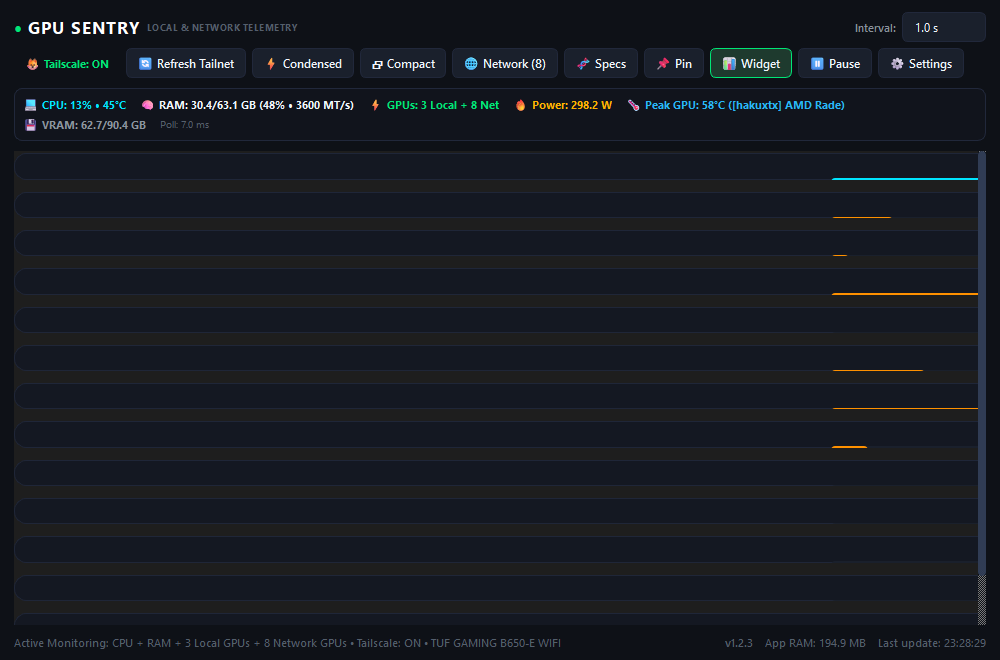
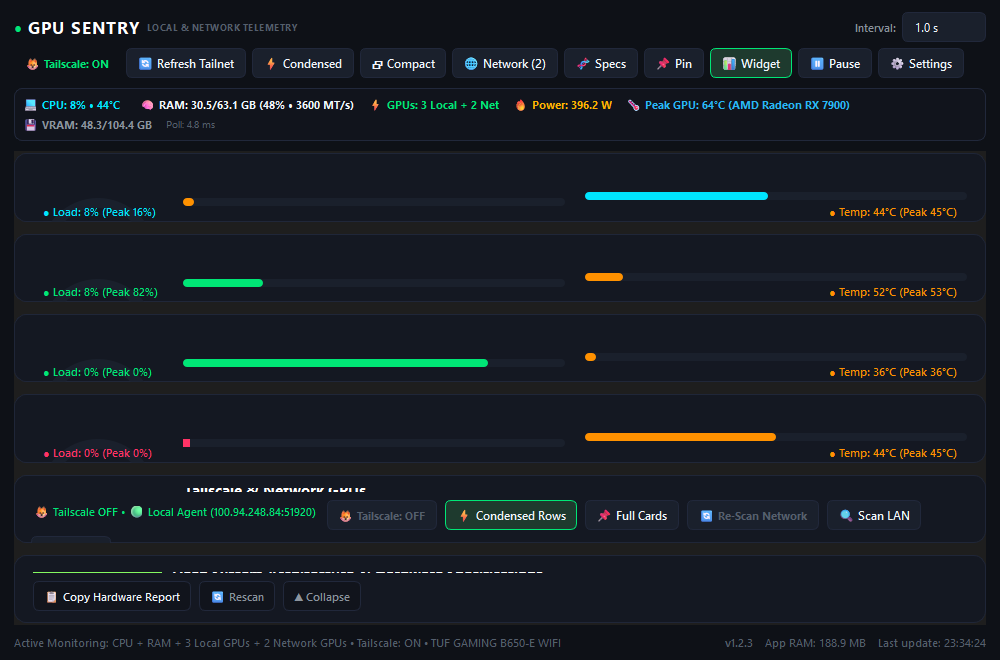
chore(privacy): sanitize personal Tailscale hostnames/IPs and re-record anonymized demo GIF

diff --git a/core/network_telemetry.py b/core/network_telemetry.py
@@ -138,7 +138,7 @@ true
 
 @dataclass
 class RemoteNodeConfig:
-    node_id: str          # e.g. "sentry://192.168.1.50:51920" or "ssh://hakanu@hakuxtx"
+    node_id: str          # e.g. "sentry://192.168.1.50:51920" or "ssh://user@gpu-rig"
     address: str          # IP, hostname, or user@host
     protocol: str = "auto"  # "auto", "sentry", "ssh", "lhm"
     port: int = DEFAULT_HTTP_PORT
@@ -715,7 +715,7 @@ class NetworkTelemetryManager(QObject):
             raw_host = str(p.get("HostName", "")).strip()
             dns_name = str(p.get("DNSName", "")).strip().rstrip(".")
             dns_short = dns_name.split(".")[0].strip() if dns_name else ""
-            # Prefer clean DNS hostname (e.g. 'hakumacmini') over verbose HostName ('hakumacmini’s Mac mini')
+            # Prefer clean DNS hostname (e.g. 'mac-mini') over verbose HostName ('User’s Mac mini')
             host_name = dns_short or raw_host
             ts_ips = p.get("TailscaleIPs", [])
             ip = ts_ips[0] if ts_ips else ""
@@ -758,7 +758,7 @@ class NetworkTelemetryManager(QObject):
         except Exception:
             pass
         ssh_users = []
-        for u in ("hakanu", local_user, "root"):
+        for u in (local_user, "root"):
             if u and u not in ssh_users:
                 ssh_users.append(u)
 

diff --git a/ui/widgets/network_nodes_card.py b/ui/widgets/network_nodes_card.py
@@ -177,7 +177,7 @@ class NetworkNodesCard(QFrame):
         add_bar.addWidget(self.cb_proto)
 
         self.txt_address = QLineEdit()
-        self.txt_address.setPlaceholderText("Enter Tailscale host / IP / SSH (e.g. hakanu@hakuxtx or 100.88.172.48 or 192.168.1.50)...")
+        self.txt_address.setPlaceholderText("Enter Tailscale host / IP / SSH (e.g. user@gpu-rig or 100.64.0.10 or 192.168.1.50)...")
         self.txt_address.setStyleSheet(f"""
             QLineEdit {{
                 background-color: {Theme.BG_ROOT};

diff --git a/backlog.md b/backlog.md
@@ -16,7 +16,7 @@
   - Integrated `LinuxDrmBackend` into `BpytopTuiApp` so Ubuntu AMD and Intel GPUs appear natively in the Local GPUs box and Active GPU Processes panel.
   - Added automatic headless fallback in `main.py` so running `gpu-sentry` over SSH without `$DISPLAY`/`$WAYLAND_DISPLAY` launches the TUI automatically and `--agent` runs without requiring `PyQt6`.
   - Added non-root Linux SMBIOS Type 16/17 DIMM inspection via `/run/udev/data/+dmi:id` in `core/hardware_info.py`.
-  - Verified on Ubuntu AMD discrete (`hakuxtx` — RX 7900 XTX) and AMD APU (`gmk` — Radeon 780M) systems.
+  - Verified on Ubuntu AMD discrete (RX 7900 XTX) and AMD APU (Radeon 780M) systems.
 - [x] **GUI Tailscale ON/OFF Controls & Very Condensed View of Everything**:
   - Added master **`🦊 Tailscale: ON / OFF`** toggle button in the top navigation bar (`ui/main_window.py`), `NetworkNodesCard` header (`ui/widgets/network_nodes_card.py`), `CondensedDashboardWidget` (`ui/widgets/condensed_dashboard.py`), System Tray menu, and `t` hotkey in TUI (`ui/tui_dashboard.py`), plus `--no-tailscale` / `--tailscale` CLI flags.
   - Added per-node `ON` / `OFF` enable/disable toggles in `NetworkNodesCard` and `CondensedDashboardWidget`.
@@ -26,9 +26,9 @@
   - Added **`🔄 Re-Scan`** / **`🔄 Re-Scan Network`** button in the GUI navigation bar (`ui/main_window.py`), `CondensedDashboardWidget` (`ui/widgets/condensed_dashboard.py`), and `NetworkNodesCard` (`ui/widgets/network_nodes_card.py`), as well as `r` / `s` hotkey in `ui/tui_dashboard.py`.
   - Clears probed Tailscale cache and triggers an immediate parallel probe of both Tailscale Tailnet and local LAN nodes.
   - Added full macOS & Apple Silicon GPU support (`IOAccelerator` / `Metal`): parses GPU model (e.g. `Apple M4 (10-Core GPU)`), Metal driver version, core count, live `Device Utilization %`, `Renderer Utilization %`, `Tiler Utilization %`, Unified Memory (`sysctl hw.memsize` + `vm_stat`), and non-root die temperatures via `IOHIDEventSystemClient`.
-  - Added clean DNS MagicDNS resolution (`DNSName`) so macOS machines with spaces or special characters in `HostName` (e.g. `hakumacmini’s Mac mini` -> `hakumacmini`) connect cleanly over SSH.
+  - Added clean DNS MagicDNS resolution (`DNSName`) so macOS machines with spaces or special characters in `HostName` (e.g. `User’s Mac mini` -> `mac-mini`) connect cleanly over SSH.
   - Added zsh compatibility guard (`setopt NO_NOMATCH`) to the remote SSH probe so zsh on macOS does not abort on Linux sysfs glob patterns.
-  - Bumped version to `v1.1.4` and verified `hakumacmini` and `hakux` discovery and telemetry.
+  - Bumped version to `v1.1.4` and verified macOS and Linux peer discovery and telemetry.
 - [x] **Documentation (`README.md`)**:
   - Documented `uv` installation and git-based self-update workflows, Ubuntu setup, native AMD `amdgpu` telemetry features, TUI usage, and FAQ for Windows `taskkill` and Tailnet troubleshooting / Re-Scan.
 

diff --git a/README.md b/README.md
@@ -59,7 +59,7 @@ Tailscale scanning is **OFF by default on fresh installs** so the app never surp
 2. Remote machines are discovered automatically via:
    - **Linux & macOS (Agentless SSH)**: Requires passwordless SSH (`BatchMode=yes`). On macOS (e.g. Mac mini), enable **System Settings → General → Sharing → Remote Login** and copy your SSH key once:
      ```powershell
-     type $env:USERPROFILE\.ssh\id_ed25519.pub | ssh <mac_user>@hakumacmini "mkdir -p ~/.ssh && chmod 700 ~/.ssh && cat >> ~/.ssh/authorized_keys && chmod 600 ~/.ssh/authorized_keys"
+     type $env:USERPROFILE\.ssh\id_ed25519.pub | ssh <mac_user>@<mac_host> "mkdir -p ~/.ssh && chmod 700 ~/.ssh && cat >> ~/.ssh/authorized_keys && chmod 600 ~/.ssh/authorized_keys"
      ```
    - **Any OS (Headless Agent, No SSH needed)**: Run `gpu-sentry --agent` on the remote machine (listens on HTTP `:51920` + UDP `:51921`).
    - **Windows (LibreHardwareMonitor)**: Automatically detects LHM web server on `:8085`.
@@ -101,7 +101,7 @@ Windows OpenSSH (`C:\Windows\System32\OpenSSH\ssh.exe`) has a known quirk: when 
 - Click **`🔄 Refresh Tailnet`** to clear cached probe states and re-scan.
 - Agentless SSH uses `BatchMode=yes` (non-interactive). If you see `Permission denied (publickey,password,keyboard-interactive)`, copy your SSH public key to `~/.ssh/authorized_keys` on the remote machine, or run `gpu-sentry --agent` on it.
 - Note: The macOS App Store edition of Tailscale does not support running a Tailscale SSH server — use macOS **Remote Login** + SSH keys, or `gpu-sentry --agent`.
-- If the remote username differs from `hakanu`, your local username, or `root`, add `<user>@<host>` once in the **Network GPUs** panel.
+- If the remote username differs from your local username or `root`, add `<user>@<host>` once in the **Network GPUs** panel.
 </details>
 
 <details>
